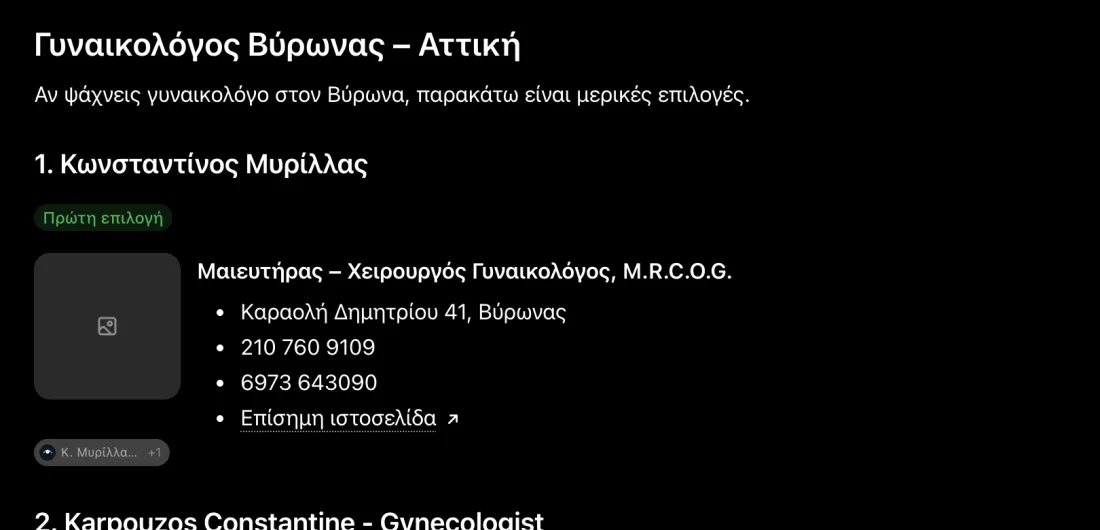
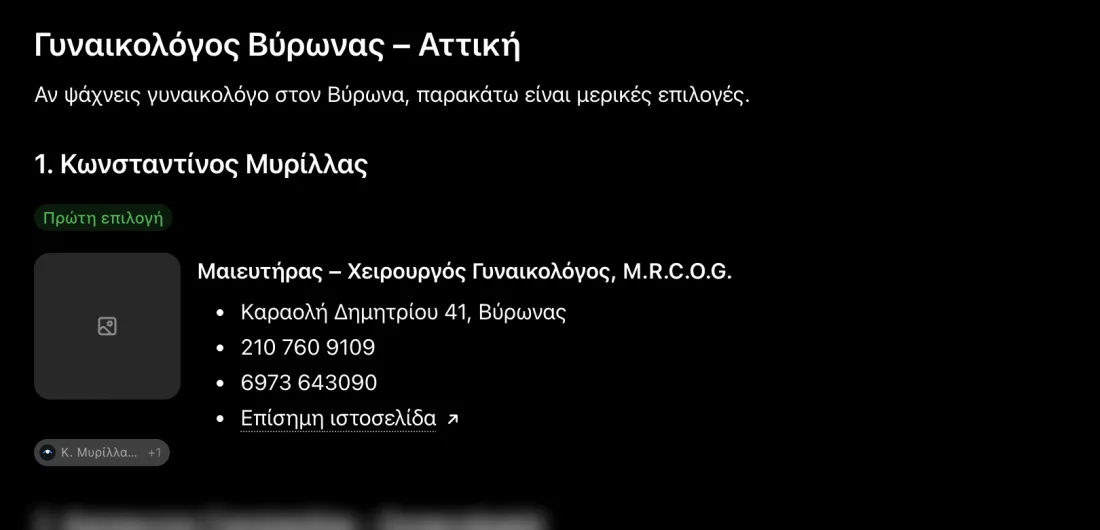
Αποδείξεις SEO/GEO: θόλωμα στον κατάλογο και στον δεύτερο γιατρό

Changed region(s): [[0.0309, 0.9358, 0.5255, 1.0]]

diff --git a/index.html b/index.html
@@ -575,8 +575,8 @@
           </figure>
           <figure class="proof-card">
             <span class="proof-tag mono"><b>Google</b> · 1ο ιατρείο στα οργανικά</span>
-            <span class="proof-shot"><img src="/assets/img/proof/myrillas-google-organic.webp" alt="Οργανικά αποτελέσματα Google για «γυναικολόγος Βύρωνας»: το kmyrillas.gr πρώτο ιατρείο μετά τον κατάλογο Vrisko" width="1100" loading="lazy" decoding="async"></span>
-            <figcaption>Στα κανονικά αποτελέσματα, πάνω από κάθε άλλο ιατρείο· μόνο ο κατάλογος Vrisko είναι από πάνω.</figcaption>
+            <span class="proof-shot"><img src="/assets/img/proof/myrillas-google-organic.webp" alt="Οργανικά αποτελέσματα Google για «γυναικολόγος Βύρωνας»: το kmyrillas.gr πρώτο ιατρείο μετά από έναν γενικό κατάλογο" width="1100" loading="lazy" decoding="async"></span>
+            <figcaption>Στα κανονικά αποτελέσματα, πάνω από κάθε άλλο ιατρείο· μόνο ένας γενικός κατάλογος είναι από πάνω.</figcaption>
           </figure>
         </div>
         <p class="proof-fine mono">Στιγμιότυπα 10/11/2026, αναζήτηση χωρίς σύνδεση σε λογαριασμό. Τα αποτελέσματα αλλάζουν με την τοποθεσία και τον χρόνο.</p>
